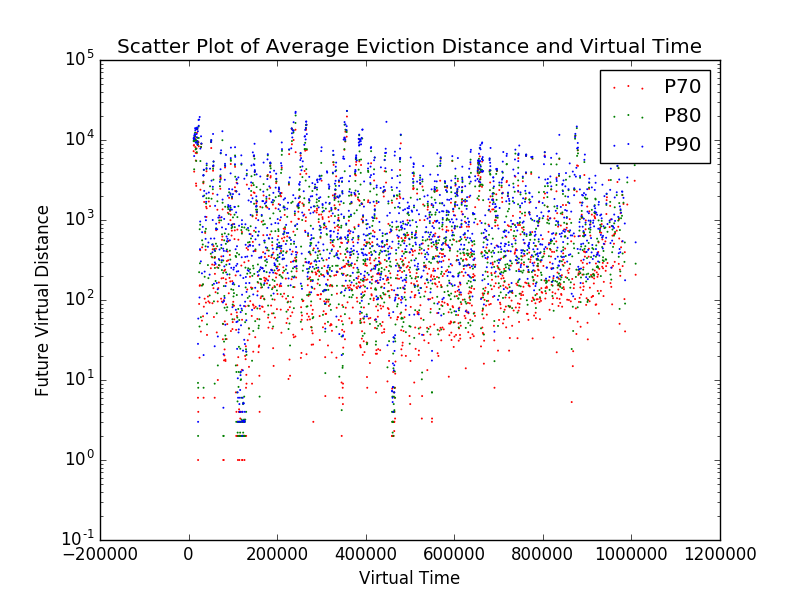
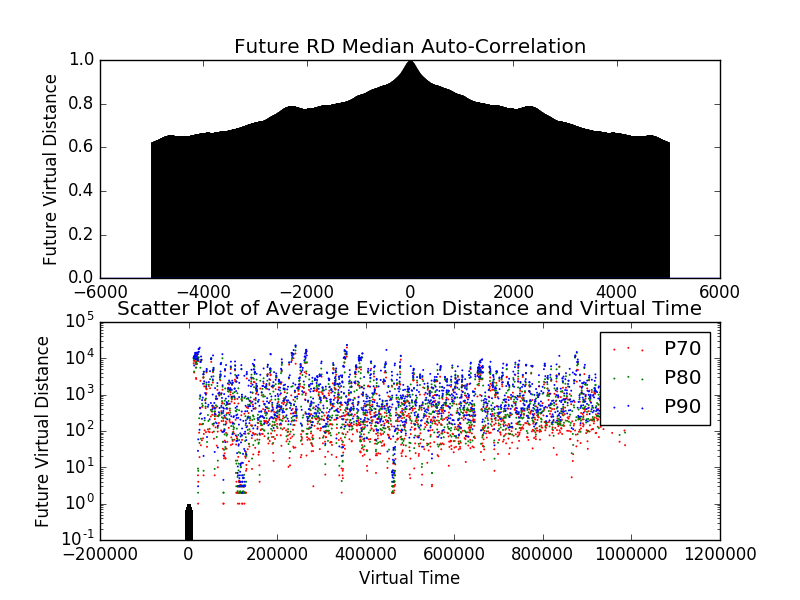
ssa

diff --git a/opt_analysis.py b/opt_analysis.py
@@ -1,4 +1,5 @@
 import numpy as np
+import pandas as pd
 import random, sys, time
 import matplotlib
 matplotlib.use('agg')
@@ -9,10 +10,20 @@ from PyMimircache.cache.optimal import Optimal
 def main():
     init_params = {'label': 2, 'real_time': 1}
     file_name = sys.argv[1]
+    
+    # Write modes: 'rd' for future reuse distance plot,
+    #              'auto' for autocorrelation plot,
+    #              'ev' for eviction distance plot,
+    #              'rd_csv' for future reuse distance csv,
+    #              'all' for everything
+    write_modes = set(sys.argv[2:])
+    if 'all' in write_modes:
+        write_modes = {'rd', 'auto', 'ev', 'rd_csv'}
+
     reader = CsvReader('/research/george/ranktest/traces/shared/' + file_name + '_no_feat.csv',
         init_params=init_params)
 
-    cache_size = 5001
+    cache_size = 5000
     rand_factor = 0.005 # Take X% of values in the cache to analyze
     opt = Optimal(cache_size, reader)
     
@@ -24,7 +35,7 @@ def main():
     # Median values
     med_x = []
     med_y = []
-    #q3_y = []
+    q3_y = []
 
     # Evict Distance values
     ev_x = []
@@ -39,18 +50,20 @@ def main():
         opt.access(request, evict_item_list=ev_item)
         id_to_vtime[request] = opt.ts
         temp_lst = []
-        for req_id in opt.pq:
-            if random.random() < rand_factor:
-                #fut_rd_arr1.append(opt.ts)
-                #fut_rd_arr2.append(-opt.pq[req_id] - opt.ts)
-                temp_lst.append(-opt.pq[req_id] - opt.ts) 
+        if 'rd' in write_modes or 'rd_csv' in write_modes:
+            for req_id in opt.pq:
+                if random.random() < rand_factor:
+                    #fut_rd_arr1.append(opt.ts)
+                    #fut_rd_arr2.append(-opt.pq[req_id] - opt.ts)
+                    temp_lst.append(-opt.pq[req_id] - opt.ts) 
         if temp_lst:
             med_x.append(opt.ts)
             med_y.append(np.median(temp_lst))
-            #q3_y.append(np.percentile(temp_lst, 75))
-        if ev_item and opt.ts != id_to_vtime[ev_item[0]]:
-            ev_x.append(opt.ts)
-            ev_y.append(opt.ts - id_to_vtime[ev_item[0]])
+            q3_y.append(np.percentile(temp_lst, 75))
+        if 'ev' in write_modes:
+            if ev_item and opt.ts != id_to_vtime[ev_item[0]]:
+                ev_x.append(opt.ts)
+                ev_y.append(opt.ts - id_to_vtime[ev_item[0]])
         if (opt.ts % 100000 == 0):
             print('progress', opt.ts)
 
@@ -89,66 +102,79 @@ def main():
     print('Time for 2D Histogram: ', str(t3-t2)) """
 
     # Median Future Reuse Distance
-    plt.figure(3)
-
-    length = len(med_x)
-    med_x = med_x[int(0.05*length):int(0.95*length)]
-    med_y = med_y[int(0.05*length):int(0.95*length)]
-
-    bucket_size = 50
-    temp_y_med_lst = []
-    #temp_y_q3_lst = []
-    avg_x_fut_dist = []
-    avg_y_med_fut_dist = []
-    avg_y_q3_fut_dist = []
-    for index, dist in enumerate(med_y):
-        if index % bucket_size == bucket_size - 1:
-            avg_x_fut_dist.append(med_x[index])
-            avg_y_med_fut_dist.append(np.median(temp_y_med_lst))
-            avg_y_q3_fut_dist.append(np.percentile(temp_y_med_lst, 75))
-            #avg_y_q3_fut_dist.append(np.mean(temp_y_q3_lst))
-            temp_y_med_lst = []
-            #temp_y_q3_lst = []
-        temp_y_med_lst.append(dist)
-        #temp_y_q3_lst.append(q3_y[index])
-
-    """ samples = np.random.randint(0, len(med_x), size=int(0.05*len(med_x))) # Samples X% of values to plot
-    med_x = [med_x[i] for i in samples]
-    med_y = [med_y[i] for i in samples]
-    q3_y = [q3_y[i] for i in samples] """
     
-    fut_rd_med = plt.scatter(avg_x_fut_dist, avg_y_med_fut_dist, s=0.2, c='b', edgecolors='none')
-    plt.title('Scatter Plot of Future Reuse Distance Stats and Virtual Time')
-    plt.xlabel('Virtual Time')
-    plt.ylabel('Future Virtual Distance')
-    #plt.savefig('img/median_' + file_name + '_size_' + str(cache_size) + '.png')
+    if 'rd' in write_modes or 'rd_csv' in write_modes:
+        plt.figure(3)
+        length = len(med_x)
+        med_x = med_x[int(0.05*length):int(0.95*length)]
+        med_y = med_y[int(0.05*length):int(0.95*length)]
+        q3_y = q3_y[int(0.05*length):int(0.95*length)]
 
-    fut_rd_q3 = plt.scatter(avg_x_fut_dist, avg_y_q3_fut_dist, s=0.2, c='g', edgecolors='none')
-    plt.legend((fut_rd_med, fut_rd_q3), ('Median', 'Q3'), loc='upper right', markerscale=5.0)
+        bucket_size = 50
+        temp_y_med_lst = []
+        temp_y_q3_lst = []
+        avg_x_fut_dist = []
+        avg_y_med_fut_dist = []
+        avg_y_q3_fut_dist = []
+        for index, dist in enumerate(med_y):
+            if index % bucket_size == bucket_size - 1:
+                avg_x_fut_dist.append(med_x[index])
+                avg_y_med_fut_dist.append(np.mean(temp_y_med_lst))
+                #avg_y_q3_fut_dist.append(np.percentile(temp_y_med_lst, 75))
+                avg_y_q3_fut_dist.append(np.mean(temp_y_q3_lst))
+                temp_y_med_lst = []
+                temp_y_q3_lst = []
 
-    plt.savefig('img/fut_rd_stats_' + file_name + '_size_' + str(cache_size) + '.png')
-    plt.close()
+            temp_y_med_lst.append(dist)
+            temp_y_q3_lst.append(q3_y[index])
+
+        """ samples = np.random.randint(0, len(med_x), size=int(0.05*len(med_x))) # Samples X% of values to plot
+        med_x = [med_x[i] for i in samples]
+        med_y = [med_y[i] for i in samples]
+        q3_y = [q3_y[i] for i in samples] """
+
+        if 'rd' in write_modes:
+            fut_rd_med = plt.scatter(avg_x_fut_dist, avg_y_med_fut_dist, s=0.2, c='b', edgecolors='none')
+            plt.title('Scatter Plot of Future Reuse Distance Stats and Virtual Time')
+            plt.xlabel('Virtual Time')
+            plt.ylabel('Future Virtual Distance')
+
+            fut_rd_q3 = plt.scatter(avg_x_fut_dist, avg_y_q3_fut_dist, s=0.2, c='g', edgecolors='none')
+            plt.legend((fut_rd_med, fut_rd_q3), ('Median', 'Q3'), loc='upper right', markerscale=5.0)
+
+            plt.savefig('img/fut_rd_stats_' + file_name + '_size_' + str(cache_size) + '_' + str(time.time()) + '.png')
+
+        if 'rd_csv' in write_modes:
+            ser_x = pd.Series(data=avg_x_fut_dist)
+            ser_med = pd.Series(data=avg_y_med_fut_dist)
+            ser_q3 = pd.Series(data=avg_y_q3_fut_dist)
+            df = pd.concat([ser_x, ser_med, ser_q3])
+            df.to_csv('fut_rd_stats/' + file_name + '_' + str(cache_size), index=False)
+    
+        plt.close()
 
     t4 = time.time()
     print('Time for Median/Q3 Plot: ', str(t4-t1))
     
 
     # Autocorrelation :(
-    plt.figure(4)
-    fig, axs = plt.subplots(nrows=2)
+    if 'auto' in write_modes:
+        plt.figure(4)
+        fig, axs = plt.subplots(nrows=2)
 
-    reduction_factor = 7
-    avg_y_med_fut_dist = [avg_y_med_fut_dist[i] for i in range(len(avg_y_med_fut_dist)) if i % reduction_factor == 0]
-    avg_y_q3_fut_dist = [avg_y_q3_fut_dist[i] for i in range(len(avg_y_q3_fut_dist)) if i % reduction_factor == 0]
-    
-    axs[0].acorr(avg_y_med_fut_dist, maxlags=20000, normed=True)
-    axs[1].acorr(avg_y_q3_fut_dist, maxlags=20000, normed=True)
-    for ax in axs:
-        ax.set(ylabel='Future Virtual Distance')
-    axs[1].set(xlabel='Lags (Virtual Time)')
-    axs[0].set_title('Future RD Median Auto-Correlation')
-    axs[1].set_title('Future RD Q3 Auto-Correlation')
-    fig.savefig('img/fut_rd_med_q3_autocorr_' + file_name + '_size_' + str(cache_size) + '.png')
+        #reduction_factor = 123
+        #avg_y_med_fut_dist = [avg_y_med_fut_dist[i] for i in range(len(avg_y_med_fut_dist)) if i % reduction_factor == 0]
+        #avg_y_q3_fut_dist = [avg_y_q3_fut_dist[i] for i in range(len(avg_y_q3_fut_dist)) if i % reduction_factor == 0]
+        
+        axs[0].acorr(avg_y_med_fut_dist, maxlags=20000, normed=True)
+        axs[1].acorr(avg_y_q3_fut_dist, maxlags=20000, normed=True)
+        for ax in axs:
+            ax.set(ylabel='Future Virtual Distance')
+        axs[1].set(xlabel='Lags (Virtual Time / 50)')
+        axs[0].set_title('Future RD Median Auto-Correlation')
+        axs[1].set_title('Future RD Q3 Auto-Correlation')
+        fig.savefig('img/fut_rd_med_q3_autocorr_' + file_name + '_size_' + str(cache_size) + '_' + str(time.time()) + '.png')
+        plt.close()
 
     t5 = time.time()
     print('Time for Median/Q3 Auto-Correlation: ', str(t5-t4)) 
@@ -171,39 +197,41 @@ def main():
     print('Time for Eviction Distance Plot: ', str(t5-t4)) """
 
     # Percentile Eviction Distance
-    plt.figure(5)
+    if 'ev' in write_modes:
+        plt.figure(5)
 
-    avg_ev_x = []
-    p70_ev_y = []
-    p80_ev_y = []
-    p90_ev_y = []
-    bucket_size = 100
+        avg_ev_x = []
+        p70_ev_y = []
+        p80_ev_y = []
+        p90_ev_y = []
+        bucket_size = 100
 
-    #temp_x_lst = []
-    temp_y_lst = []
-    for index, dist in enumerate(ev_y):
-        if index % bucket_size == bucket_size - 1:
-            avg_ev_x.append(ev_x[index])
-            p70_ev_y.append(np.percentile(temp_y_lst, 70))
-            p80_ev_y.append(np.percentile(temp_y_lst, 80))
-            p90_ev_y.append(np.percentile(temp_y_lst, 90))
-            #temp_x_lst = []
-            temp_y_lst = []
-        #temp_x_lst.append(ev_x[index])
-        temp_y_lst.append(dist)
+        #temp_x_lst = []
+        temp_y_lst = []
+        for index, dist in enumerate(ev_y):
+            if index % bucket_size == bucket_size - 1:
+                avg_ev_x.append(ev_x[index])
+                p70_ev_y.append(np.percentile(temp_y_lst, 70))
+                p80_ev_y.append(np.percentile(temp_y_lst, 80))
+                p90_ev_y.append(np.percentile(temp_y_lst, 90))
+                #temp_x_lst = []
+                temp_y_lst = []
+            #temp_x_lst.append(ev_x[index])
+            temp_y_lst.append(dist)
 
-    p70_ev = plt.scatter(avg_ev_x, p70_ev_y, s=2, c='r', edgecolors='none')
-    p80_ev = plt.scatter(avg_ev_x, p80_ev_y, s=2, c='g', edgecolors='none')
-    p90_ev = plt.scatter(avg_ev_x, p90_ev_y, s=2, c='b', edgecolors='none')
-    plt.title('Scatter Plot of Average Eviction Distance and Virtual Time')
-    plt.xlabel('Virtual Time')
-    plt.ylabel('Future Virtual Distance')
-    plt.yscale('log')
-    plt.legend((p70_ev, p80_ev, p90_ev), ('P70', 'P80', 'P90'), loc='upper right', markerscale=1.0)
-    plt.savefig('img/evict_dist_stats_' + file_name + '_size_' + str(cache_size) + '.png')
+        p70_ev = plt.scatter(avg_ev_x, p70_ev_y, s=2, c='r', edgecolors='none')
+        p80_ev = plt.scatter(avg_ev_x, p80_ev_y, s=2, c='g', edgecolors='none')
+        p90_ev = plt.scatter(avg_ev_x, p90_ev_y, s=2, c='b', edgecolors='none')
+        plt.title('Scatter Plot of Average Eviction Distance and Virtual Time')
+        plt.xlabel('Virtual Time')
+        plt.ylabel('Future Virtual Distance')
+        plt.yscale('log')
+        plt.legend((p70_ev, p80_ev, p90_ev), ('P70', 'P80', 'P90'), loc='upper right', markerscale=1.0)
+        plt.savefig('img/evict_dist_stats_' + file_name + '_size_' + str(cache_size) + '_' + str(time.time()) + '.png')
+        plt.close()
 
     t6 = time.time()
-    print('Time for Average Eviction Distance Plot: ', str(t6-t4)) 
+    print('Time for Average Eviction Distance Plot: ', str(t6-t5)) 
     
 if __name__ == '__main__':
     main()
